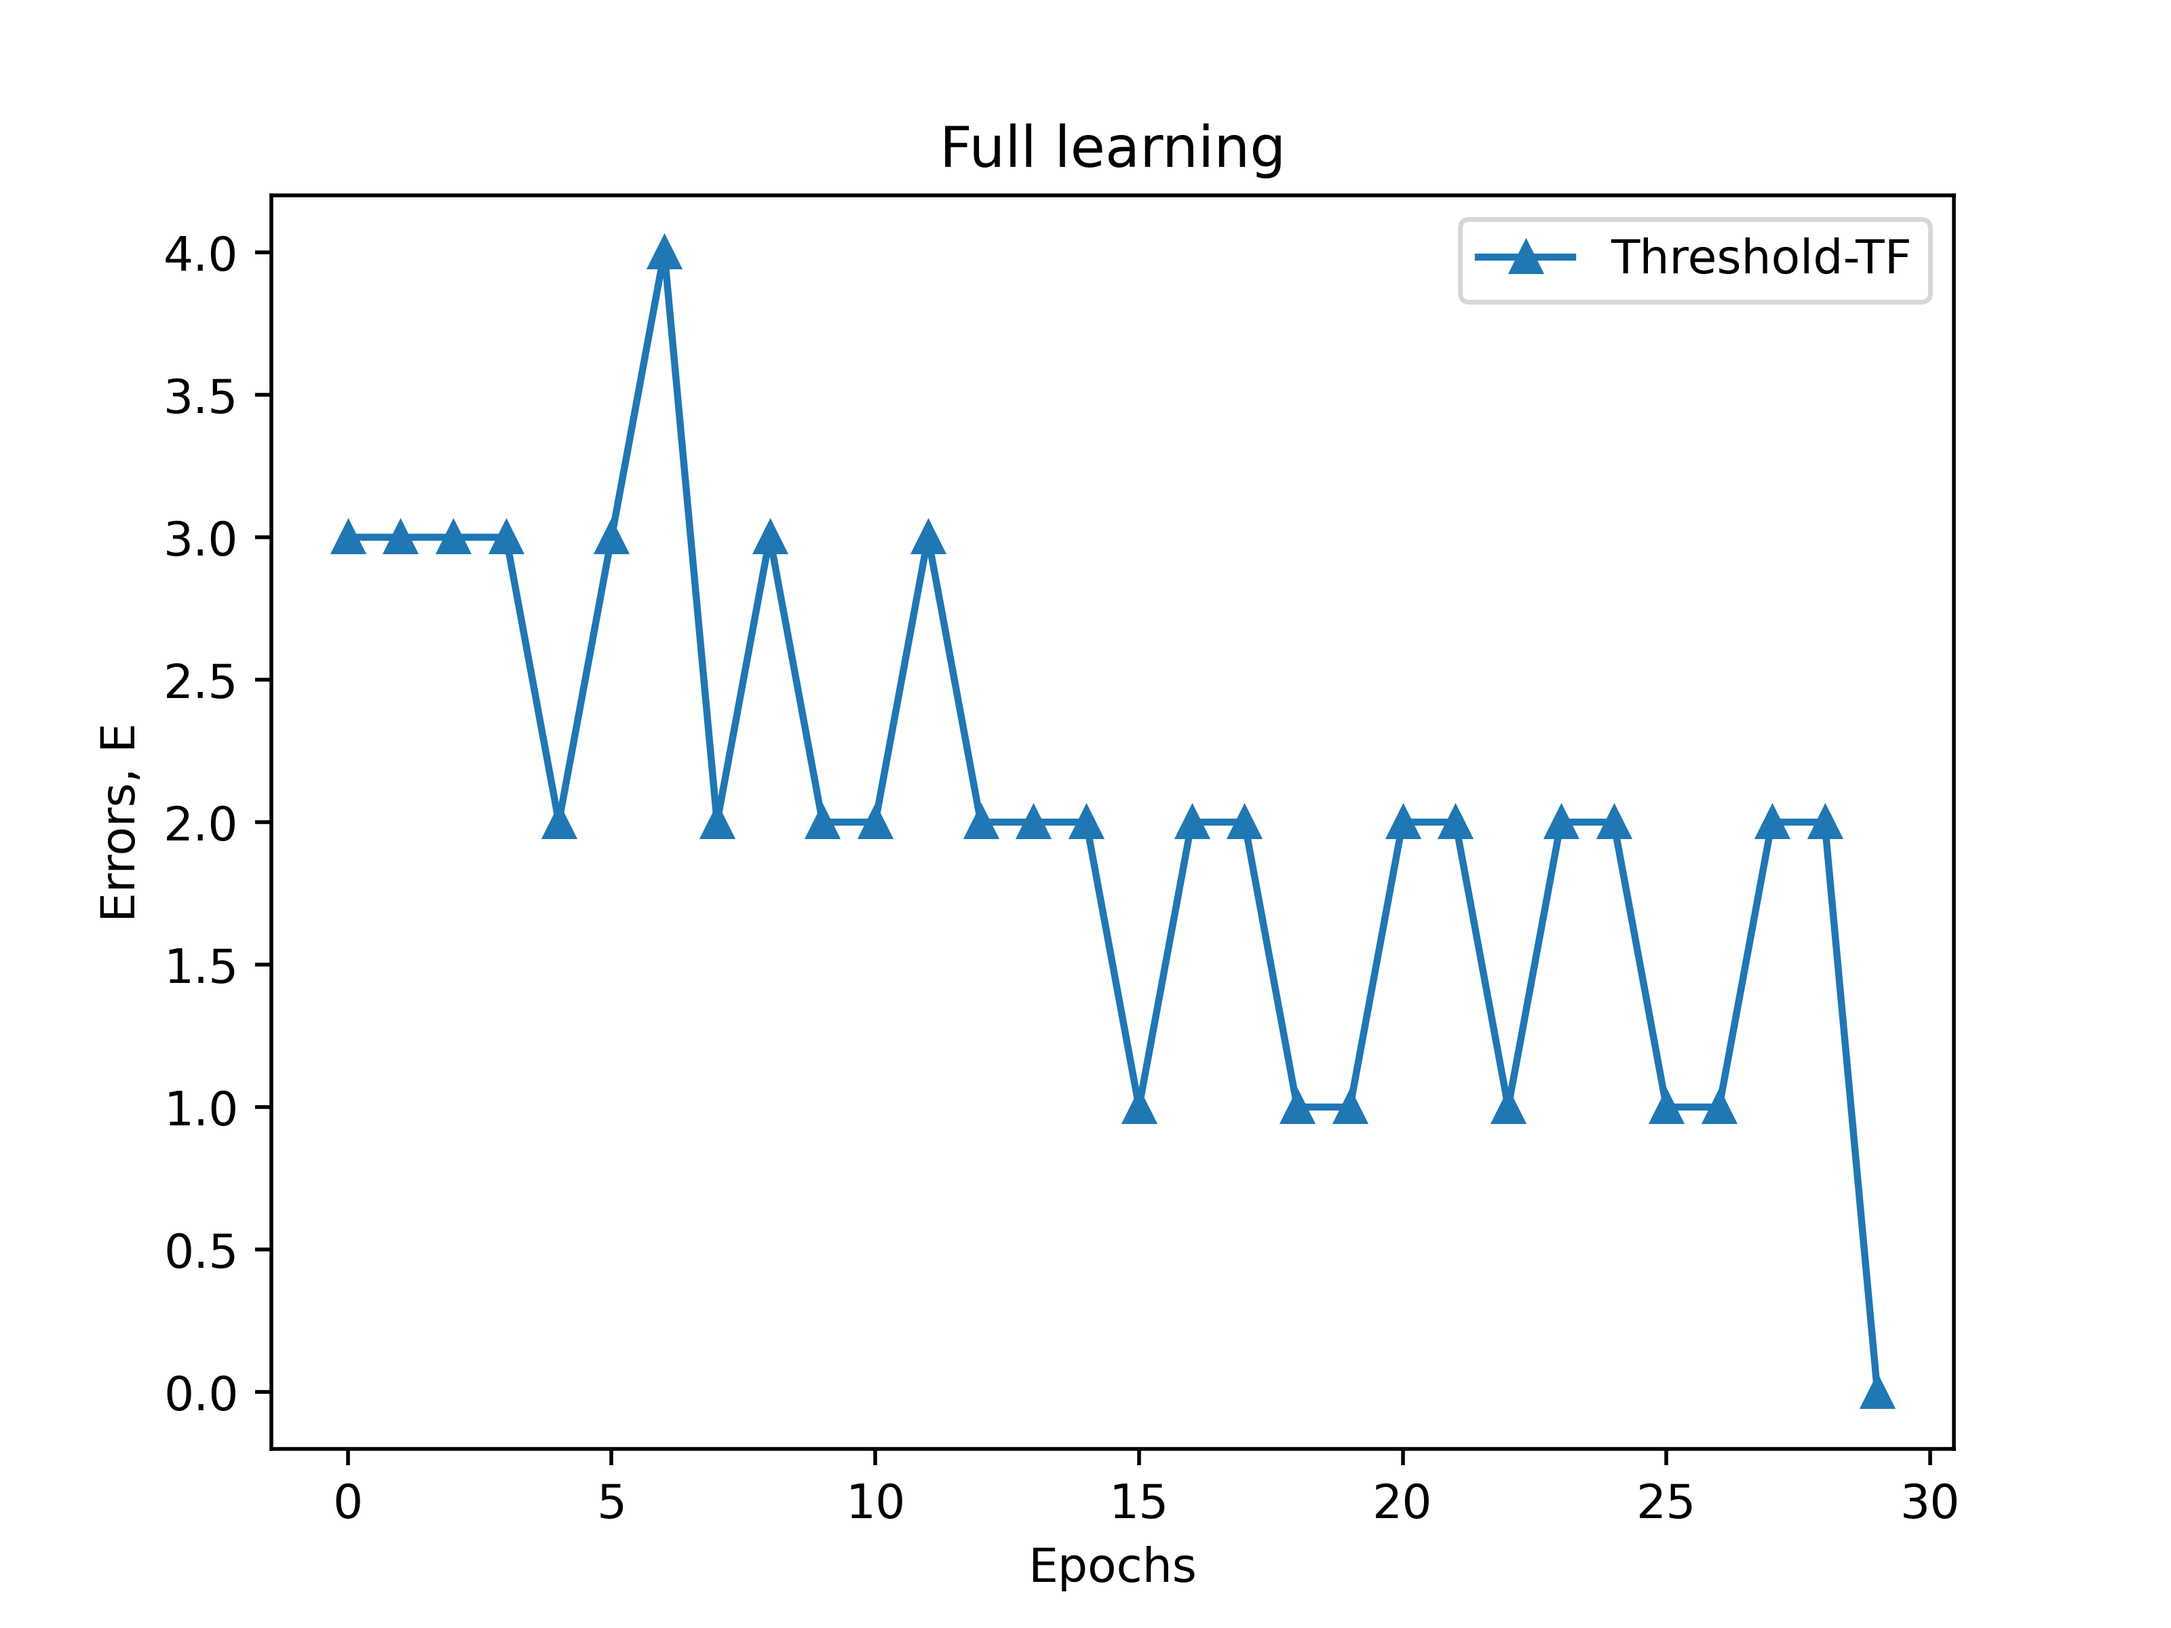
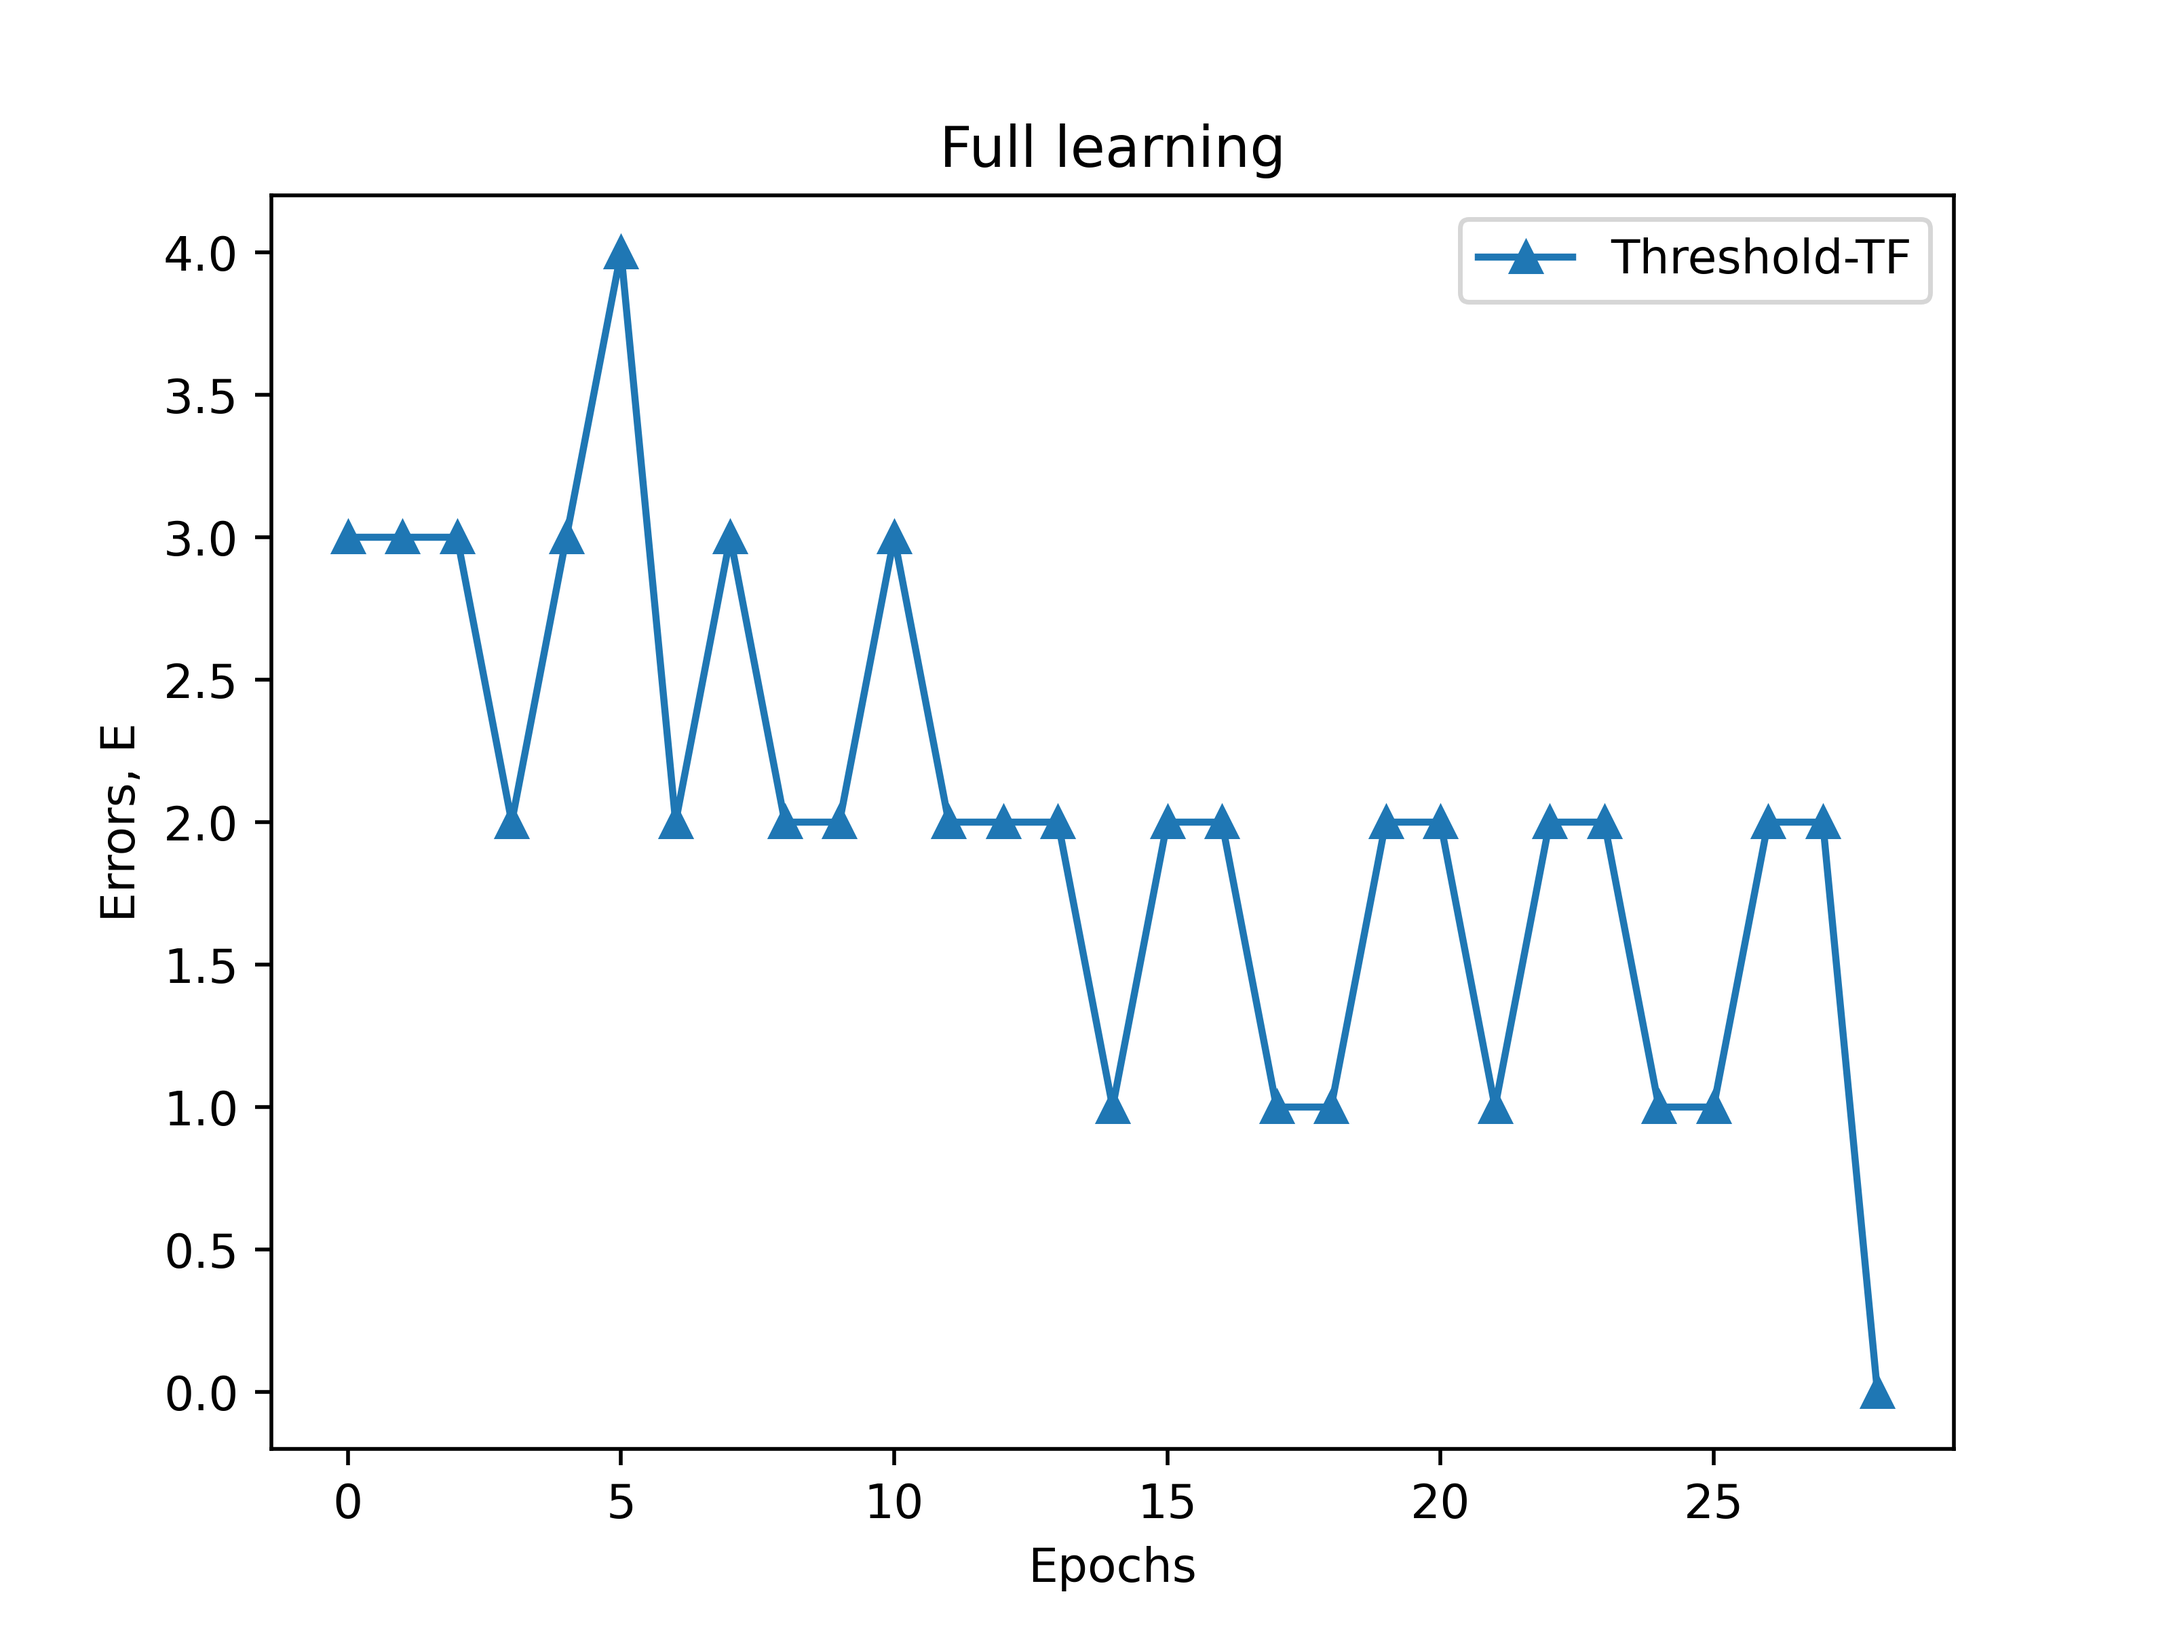
lab-1 work is on

diff --git a/lab-1/single_layer_net.py b/lab-1/single_layer_net.py
@@ -22,13 +22,18 @@ class TF:
         return y, out
 
 
-th_f: Callable[[float], float] = lambda net: net
-th_f_der: Callable[[float], float] = lambda net: 1
-threshold_tf = TF(th_f, th_f_der, 0)
+_th_f: Callable[[float], float] = lambda net: net
+_th_f_der: Callable[[float], float] = lambda net: 1
+THRESHOLD_TF = TF(_th_f, _th_f_der, 0)
 
-sig_f: Callable[[float], float] = lambda net: (math.tanh(net) + 1) / 2
-sig_f_der: Callable[[float], float] = lambda net: sig_f(net) * (1 - sig_f(net))
-sigmoid_tf = TF(sig_f, sig_f_der, 0.5)
+_sig_f: Callable[[float], float] = lambda net: (math.tanh(net) + 1) / 2
+_sig_f_der: Callable[[float], float] = lambda net: _sig_f(net) * (1 - _sig_f(net))
+SIGMOID_TF = TF(_sig_f, _sig_f_der, 0.5)
+
+TF_TYPES = {
+    0: ('TH', THRESHOLD_TF),
+    1: ('SIG', SIGMOID_TF),
+}
 
 
 class Net:
@@ -43,23 +48,22 @@ class Net:
         self.name = name
 
     def predict(self, args: list[int]) -> (int, float, float):
-        net = sum([args[i] * w for i, w in enumerate(self.weights)])
-        if -self.norm / 2 < net < self.norm / 2:
-            net = 0
-        print(f'predicted net = {net}\t', end='')
+        net = sum([norm_counter * args[i] for i, norm_counter in enumerate(self.weights)]) * self.norm
         return *self.tf.y(net), net
 
     def _correct_weights(self, net: float, delta: int, xs: list[int]):
         for i, _ in enumerate(self.weights):
-            diff = round(self.norm * delta * self.tf.f_der(net) * xs[i], self.tf.e)
-            print(f'\tw{i} = {self.weights[i]}\tdelta = {delta}, dW = {diff}', end='')
-            self.weights[i] = round(self.weights[i] + diff, self.tf.e)
-            print(f'\tw{i} = {self.weights[i]}')
+            diff_norm_counter = delta * self.tf.f_der(net) * xs[i]
+            # print(f'\tw{i} = {round(self.weights[i] * self.norm, 3)}\tdelta = {diff_norm_counter}',
+            #       end=' -> ')
+            self.weights[i] += diff_norm_counter
+            # print(f'w{i} = {round(self.weights[i] * self.norm, 3)}')
 
     def learn_epoch(self, xs_sets: list[list[int]]):
-        for xs in xs_sets:
+        for i, xs in enumerate(xs_sets):
             y, out, net = self.predict(xs[:-1])
-            print(f'{xs[1:-1]}\t-> y = {y}, out = {out}, net = {net}')
+            # print(
+            #     f'n{i} - {xs[0]} [{"".join(map(str, xs[1:-1]))}] > {xs[-1]}\t-> y = {y}, out = {round(out, 3)}, net = {round(net, 3)}')
             self._correct_weights(net, xs[-1] - y, xs)
 
 
@@ -79,20 +83,21 @@ def learn(net: Net,
     epochs = list()
     learn_sets = [sets[i] for i in learn_indexes]
 
-    j = 0
+    j = 1
     while True:
+        # if j == 14:
+        #     print(f'EPOCH {j} BEG ------------------------------------------------------------')
+        net.learn_epoch(learn_sets)
+        # if j == 14:
+        #     print(f'EPOCH {j} FIN ------------------------------------------------------------')
         answers, mistakes = test_sets(net, sets)
-        epochs.append([j, net.weights.copy(), answers.copy(), mistakes])
+        epochs.append([j, list(map(lambda x: x * 0.3, net.weights.copy())), answers.copy(), mistakes])
+        # print(epochs[-1])
         if mistakes == 0:
             return True, epochs
         if epoch_limit is not None and j > epoch_limit:
             return False, None
         j += 1
-        if j == 14:
-            print(f'EPOCH {j} BEG ------------------------------------------------------------')
-        net.learn_epoch(learn_sets)
-        if j == 14:
-            print(f'EPOCH {j} FIN ------------------------------------------------------------')
 
 
 def get_append_bf_val_fun(f: Callable[[list[int]], int]) -> Callable[[list[int]], list[int]]:
@@ -156,7 +161,7 @@ def display_net(logs: list[list],
         print(t.draw())
         return
     with open(f'{file_name}.log', 'w') as logger:
-        logger.write(f'Net learned from sets {train_set}\n')
+        logger.write(F'NET LEARNED FROM SETS {train_set}\n')
         for i in train_set:
             logger.write(f'{i}\t—> {INPUTS[i][1:-1]}\n')
         logger.write(t.draw())

diff --git a/lab-1/partial_learning.py b/lab-1/partial_learning.py
@@ -26,18 +26,18 @@ def find_base_sets(epoch_limit: int,
                    norm: float,
                    tf: TF,
                    cur_set_len: int,
-                   possible_sets: NetSetSet = None) -> (bool, NetSetSet):
+                   possible_sets: NetSetSet) -> (bool, NetSetSet):
     nss = NetSetSet()
     while True:
         print(f'NOW CHECK LEN {cur_set_len}')
-        for ps in possible_sets.dicts:
+        for ps in possible_sets.dicts.copy():
             n = Net(weights_num=ARG_NUM + 1, norm=norm, tf=tf)
             status, history = learn(n,
                                     INPUTS,
                                     set(ps),
                                     epoch_limit=epoch_limit)
             if not status:
-                possible_sets.dicts.update({ps: None})
+                possible_sets.dicts.pop(ps)
                 continue
             possible_sets.dicts.update({ps: len(history)})
             for item in list(itertools.combinations(ps, cur_set_len - 1)):
@@ -59,33 +59,34 @@ def main():
     plt.ylabel('Errors, E')
 
     # Partial Threshold
-    # nss_th = NetSetSet({tuple(range(2 ** ARG_NUM)): None})
-    # status_th, base_sets_th = find_base_sets(epoch_limit=200,
-    #                                          norm=0.3,
-    #                                          tf=threshold_tf,
-    #                                          cur_set_len=2 ** ARG_NUM,
-    #                                          possible_sets=nss_th)
-    # s, eps = base_sets_th.dicts.popitem()
-    # s = set(s)
-    # print(f'These len-{len(s)} sets can be used (TH):')
-    # print(base_sets_th)
+    nss_th = NetSetSet({tuple(range(2 ** ARG_NUM)): None})
+    status_th, base_sets_th = find_base_sets(epoch_limit=200,
+                                             norm=0.3,
+                                             tf=THRESHOLD_TF,
+                                             cur_set_len=2 ** ARG_NUM,
+                                             possible_sets=nss_th)
+    s, eps = base_sets_th.dicts.popitem()
+    s = set(s)
+    print(f'These len-{len(s)} sets can be used (TH):')
+    base_sets_th.add_set(s, eps)
+    print(base_sets_th)
     # mine = {4, 8, 13, 14, 15}
     # mine = {6, 9, 13, 14}
-    # net_threshold = Net(weights_num=ARG_NUM + 1,
-    #                     norm=0.3,
-    #                     tf=threshold_tf,
-    #                     name=f'th-pl-v{VAR}')
-    # status_th, logs_th, learn_indexes_th = learn(net_threshold,
-    #                                              INPUTS,
-    #                                              s)
+    net_threshold = Net(weights_num=ARG_NUM + 1,
+                        norm=0.3,
+                        tf=THRESHOLD_TF,
+                        name=f'th-pl-v{VAR}')
+    status_th, logs_th, learn_indexes_th = learn(net_threshold,
+                                                 INPUTS,
+                                                 s)
     # {6, 9, 13, 14})
-    # display_net(logs_th,
-    #             learn_indexes_th,
-    #             to_file=True,
-    #             file_name=f'{net_threshold.name}')
-    # plt.plot(list(range(len(logs_th[1:]))), [log[3] for log in logs_th[1:]],
-    #          label='Threshold-TF',
-    #          marker='^')
+    display_net(logs_th,
+                learn_indexes_th,
+                to_file=True,
+                file_name=f'{net_threshold.name}')
+    plt.plot(list(range(len(logs_th[1:]))), [log[3] for log in logs_th[1:]],
+             label='Threshold-TF',
+             marker='^')
 
     # Partial Sigmoid
     # nss_l = NetSetSet([set(range(2 ** ARG_NUM))])
@@ -99,7 +100,7 @@ def main():
     sig_mine = {4, 8, 13, 14, 15}
     net_logistic = Net(weights_num=ARG_NUM + 1,
                        norm=0.3,
-                       tf=sigmoid_tf,
+                       tf=SIGMOID_TF,
                        name=f'sig-pl-v{VAR}')
     # _, train_set_l = base_sets_sig.pop()
     status_l, logs_l = learn(net_logistic,

diff --git a/lab-1/check_len.py b/lab-1/check_len.py
@@ -1,0 +1,63 @@
+import sys
+
+from single_layer_net import *
+import itertools
+from colorama import Fore
+
+
+def check_sets_of_length(set_len: int,
+                         epoch_limit: int,
+                         norm: float,
+                         tf: TF) -> dict[tuple, int]:
+    found_sets: dict[tuple, int] = dict()
+    if not INPUTS:
+        return found_sets
+    if not 0 < set_len <= len(INPUTS):
+        return found_sets
+    for s in map(set, itertools.combinations(set(range(len(INPUTS))), set_len)):
+        net = Net(weights_num=ARG_NUM + 1, norm=norm, tf=tf)
+        status, history = learn(net,
+                                INPUTS,
+                                set(s),
+                                epoch_limit=epoch_limit)
+        print(s, end=' ')
+        if status:
+            print(Fore.GREEN + F'PASSED' + Fore.RESET + F' {len(history)} EPS')
+        else:
+            print(Fore.RED + F'FAILED' + Fore.RESET)
+
+        if not status:
+            continue
+        found_sets.update({tuple(sorted(s)): len(history)})
+    return found_sets
+
+
+def main():
+    tf_type = int(sys.argv[1])  # types = {th, sig}
+    ep_limit = sys.argv[2]  # recommended > 30
+    norm = float(sys.argv[3])  # 0 < norm <= 1
+    set_len = sys.argv[4]  # 0 < set_len < len(INPUTS)
+
+    if tf_type not in TF_TYPES:
+        raise Exception('UNKNOWN TF TYPE')
+    print(F'TF TYPE: {TF_TYPES.get(tf_type)[0]}')
+
+    if not 0 < norm <= 1:
+        raise Exception(F'BAD NORM GIVEN ({norm})')
+    print(F'NORM: {norm}')
+
+    print(F'CHECKING LEN-{set_len} SETS . . .')
+    sets = check_sets_of_length(int(set_len),
+                                int(ep_limit),
+                                float(norm),
+                                TF_TYPES.get(tf_type)[1])
+
+    if not sets:
+        print('NO SETS FOUND')
+        return
+    print(f'FOUND SETS: {len(sets)}')
+    print('\n'.join(map(str, sets.items())))
+
+
+if __name__ == '__main__':
+    main()

diff --git a/lab-1/net.py b/lab-1/net.py
@@ -1,0 +1,54 @@
+import sys
+
+from single_layer_net import *
+import matplotlib.pyplot as plt
+
+
+def main():
+    tf_type = int(sys.argv[1])  # types = {0, 1}
+    ep_limit = int(sys.argv[2])  # recommended > 30
+    norm = float(sys.argv[3])  # 0 < norm <= 1
+    name = sys.argv[4]  # any string for table name
+    sets = set(map(int, sys.argv[5:]))  # specify the learning sets
+
+    if tf_type not in TF_TYPES:
+        raise Exception('UNKNOWN TF TYPE')
+    print(F'TF TYPE: {TF_TYPES.get(tf_type)[0]}')
+
+    if not 0 < norm <= 1:
+        raise Exception(F'BAD NORM GIVEN ({norm})')
+    print(F'NORM: {norm}')
+
+    if not sets:
+        raise Exception('NO LEARN SETS GIVEN')
+    print(F'CHECKING {sets} . . .')
+
+    net = Net(weights_num=ARG_NUM + 1,
+              norm=norm,
+              tf=TF_TYPES.get(tf_type)[1],
+              name=F'{name}')
+    status, logs = learn(net,
+                         INPUTS,
+                         sets,
+                         epoch_limit=ep_limit)
+    if not status:
+        print(F'NET CANNOT BE LEARNED WITHIN {ep_limit} EPOCHS')
+        return
+
+    display_net(logs,
+                sets,
+                to_file=True,
+                file_name=f'{net.name}')
+
+    plt.title(F'{name} {TF_TYPES.get(tf_type)[0]} {norm} {tuple(sorted(sets))}')
+    plt.xlabel('Epochs')
+    plt.ylabel('Errors, E')
+
+    plt.plot(list(range(len(logs[1:]))), [log[3] for log in logs[1:]],
+             marker='^')
+
+    plt.gcf().savefig(F'{net.name}.png', dpi=500)
+
+
+if __name__ == '__main__':
+    main()

diff --git a/lab-1/full_learning.py b/lab-1/full_learning.py
@@ -15,7 +15,7 @@ def main():
     # Full Threshold
     net_threshold_all = Net(weights_num=ARG_NUM + 1,
                             norm=0.3,
-                            tf=threshold_tf,
+                            tf=THRESHOLD_TF,
                             name=f'th-fl-v{VAR}')
     status_th, logs_th = learn(net_threshold_all, INPUTS, learn_indexes)
     display_net(logs_th,
@@ -29,16 +29,16 @@ def main():
     # Full Sigmoid
     net_sig_all = Net(weights_num=ARG_NUM + 1,
                       norm=0.3,
-                      tf=sigmoid_tf,
+                      tf=SIGMOID_TF,
                       name=f'sig-fl-v{VAR}')
-    # status_s, logs_s = learn(net_sig_all, INPUTS, learn_indexes)
-    # display_net(logs_s,
-    #             learn_indexes,
-    #             to_file=True,
-    #             file_name=f'{net_sig_all.name}')
-    # plt.plot(list(range(len(logs_s[1:]))), [log[3] for log in logs_s[1:]],
-    #          label='Sigmoid-TF',
-    #          marker='o')
+    status_s, logs_s = learn(net_sig_all, INPUTS, learn_indexes)
+    display_net(logs_s,
+                learn_indexes,
+                to_file=True,
+                file_name=f'{net_sig_all.name}')
+    plt.plot(list(range(len(logs_s[1:]))), [log[3] for log in logs_s[1:]],
+             label='Sigmoid-TF',
+             marker='o')
 
     plt.legend()
     plt.gcf().savefig(f'fl-errors-v{VAR}.png', dpi=500)
